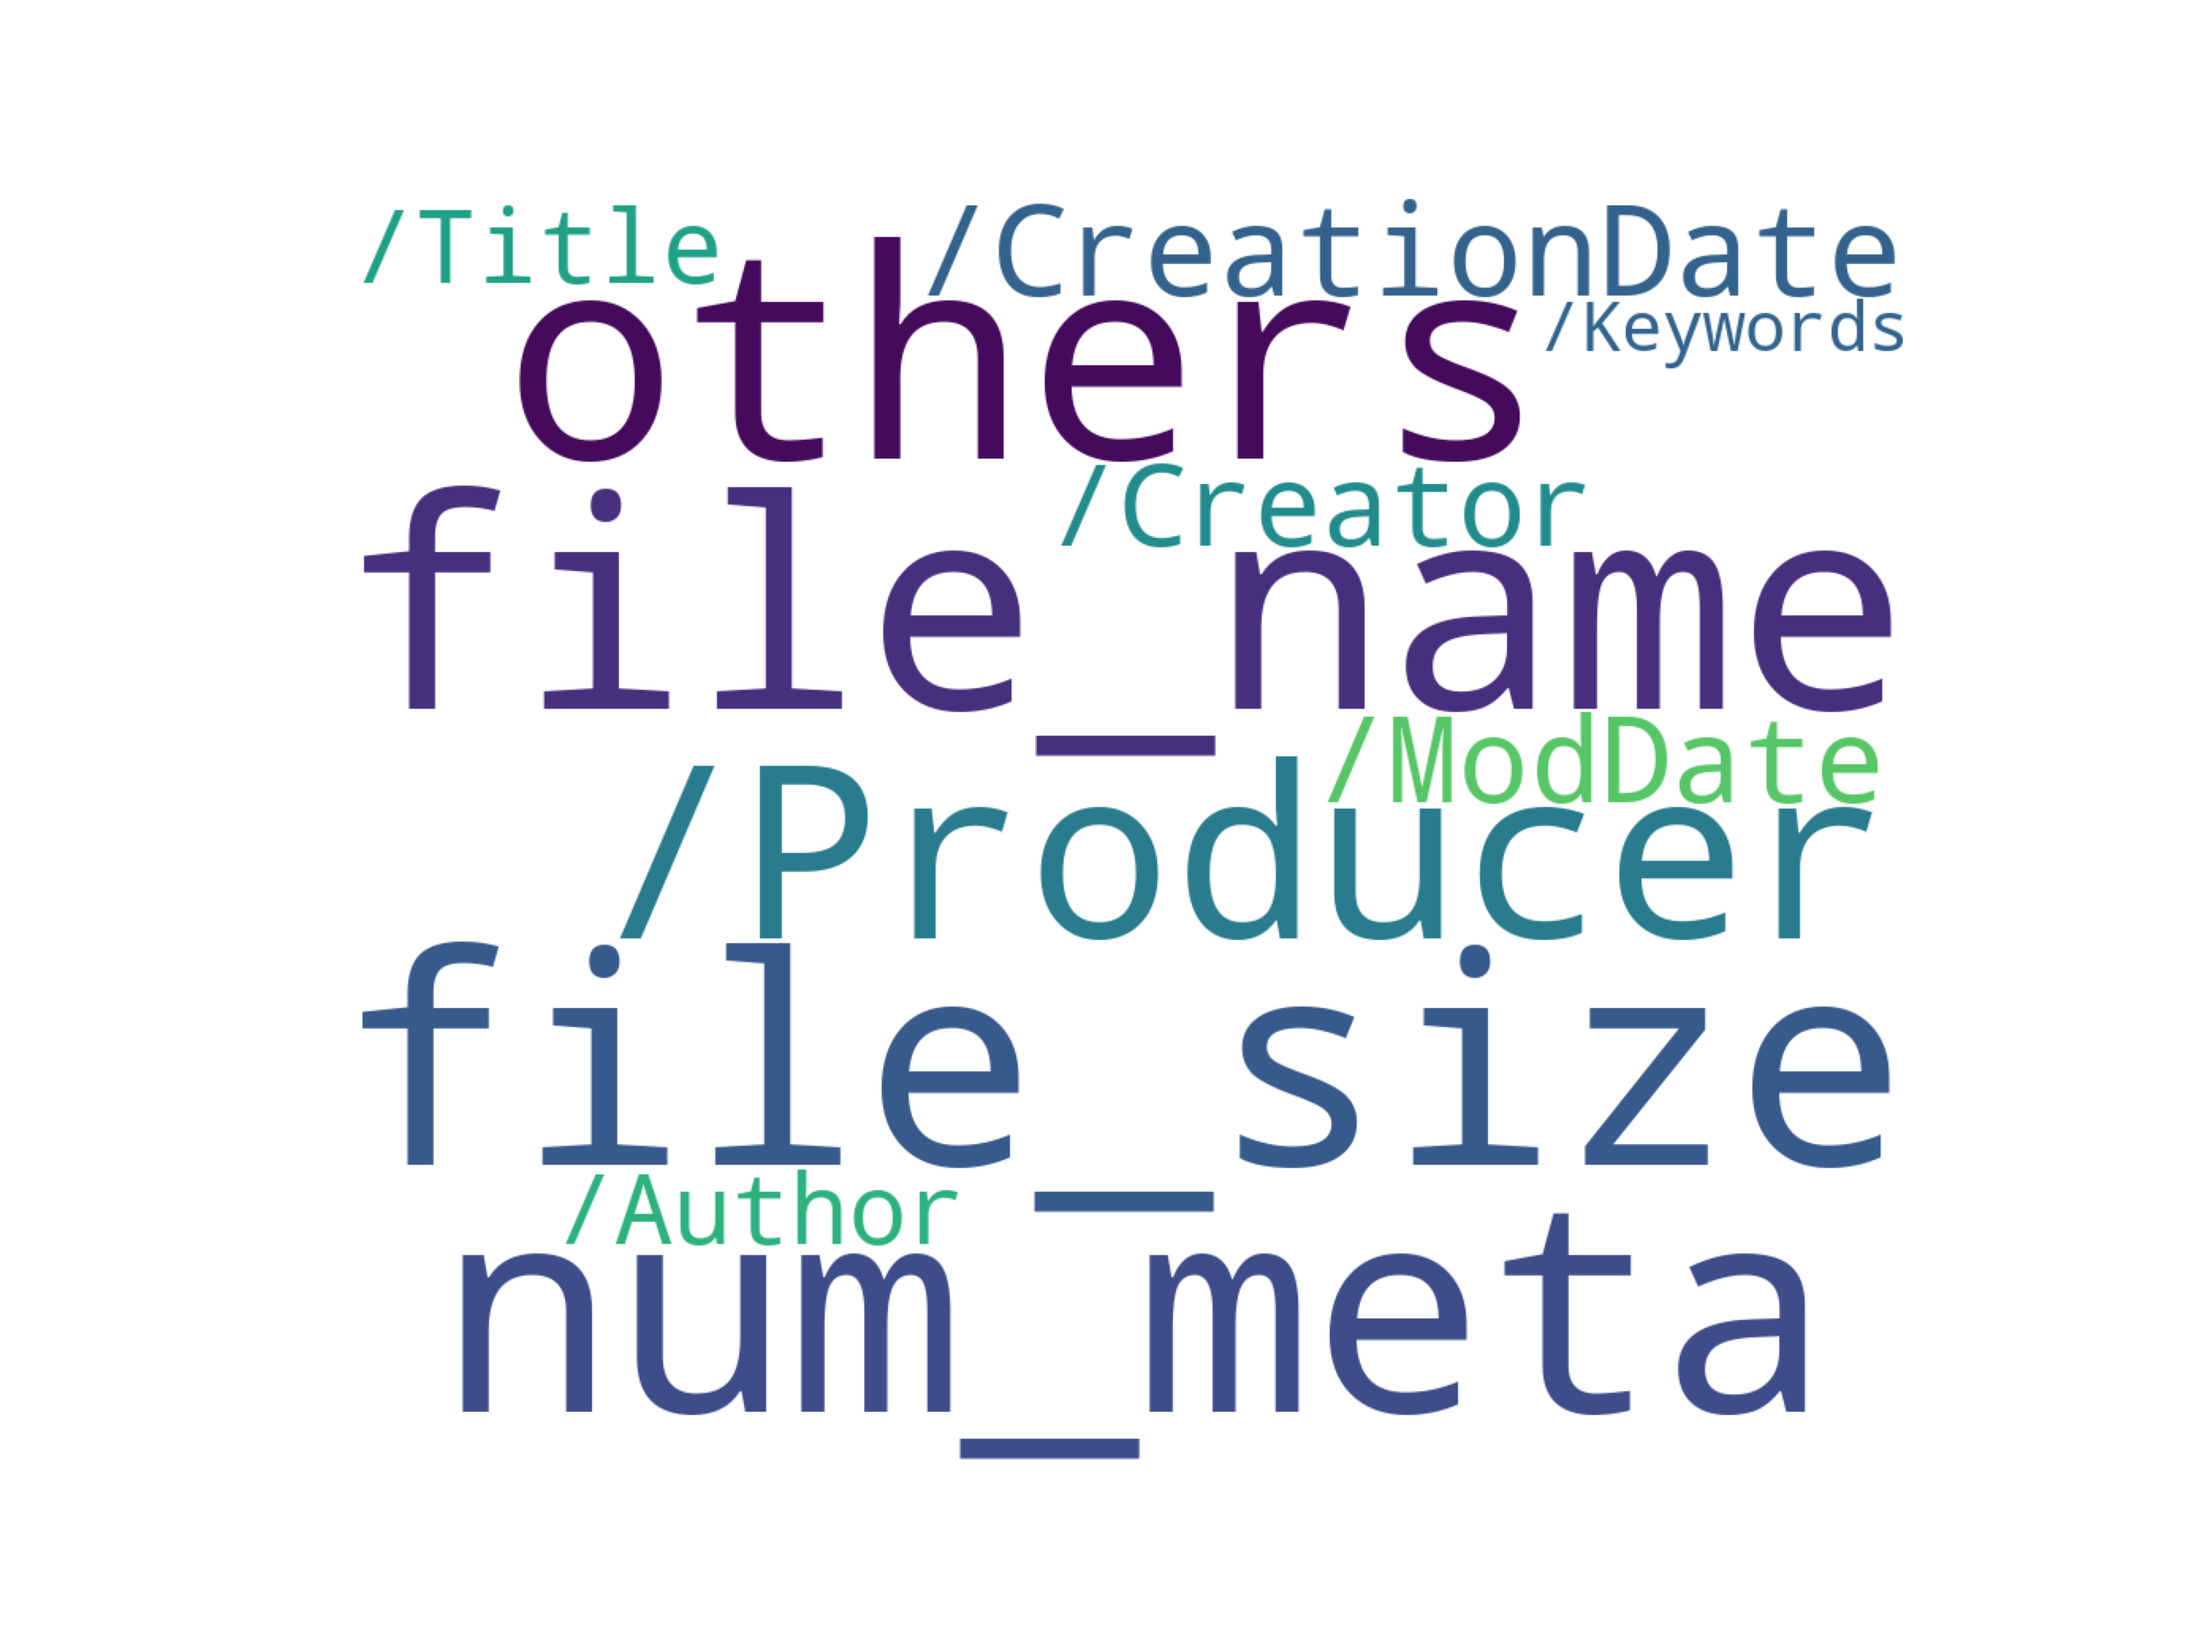
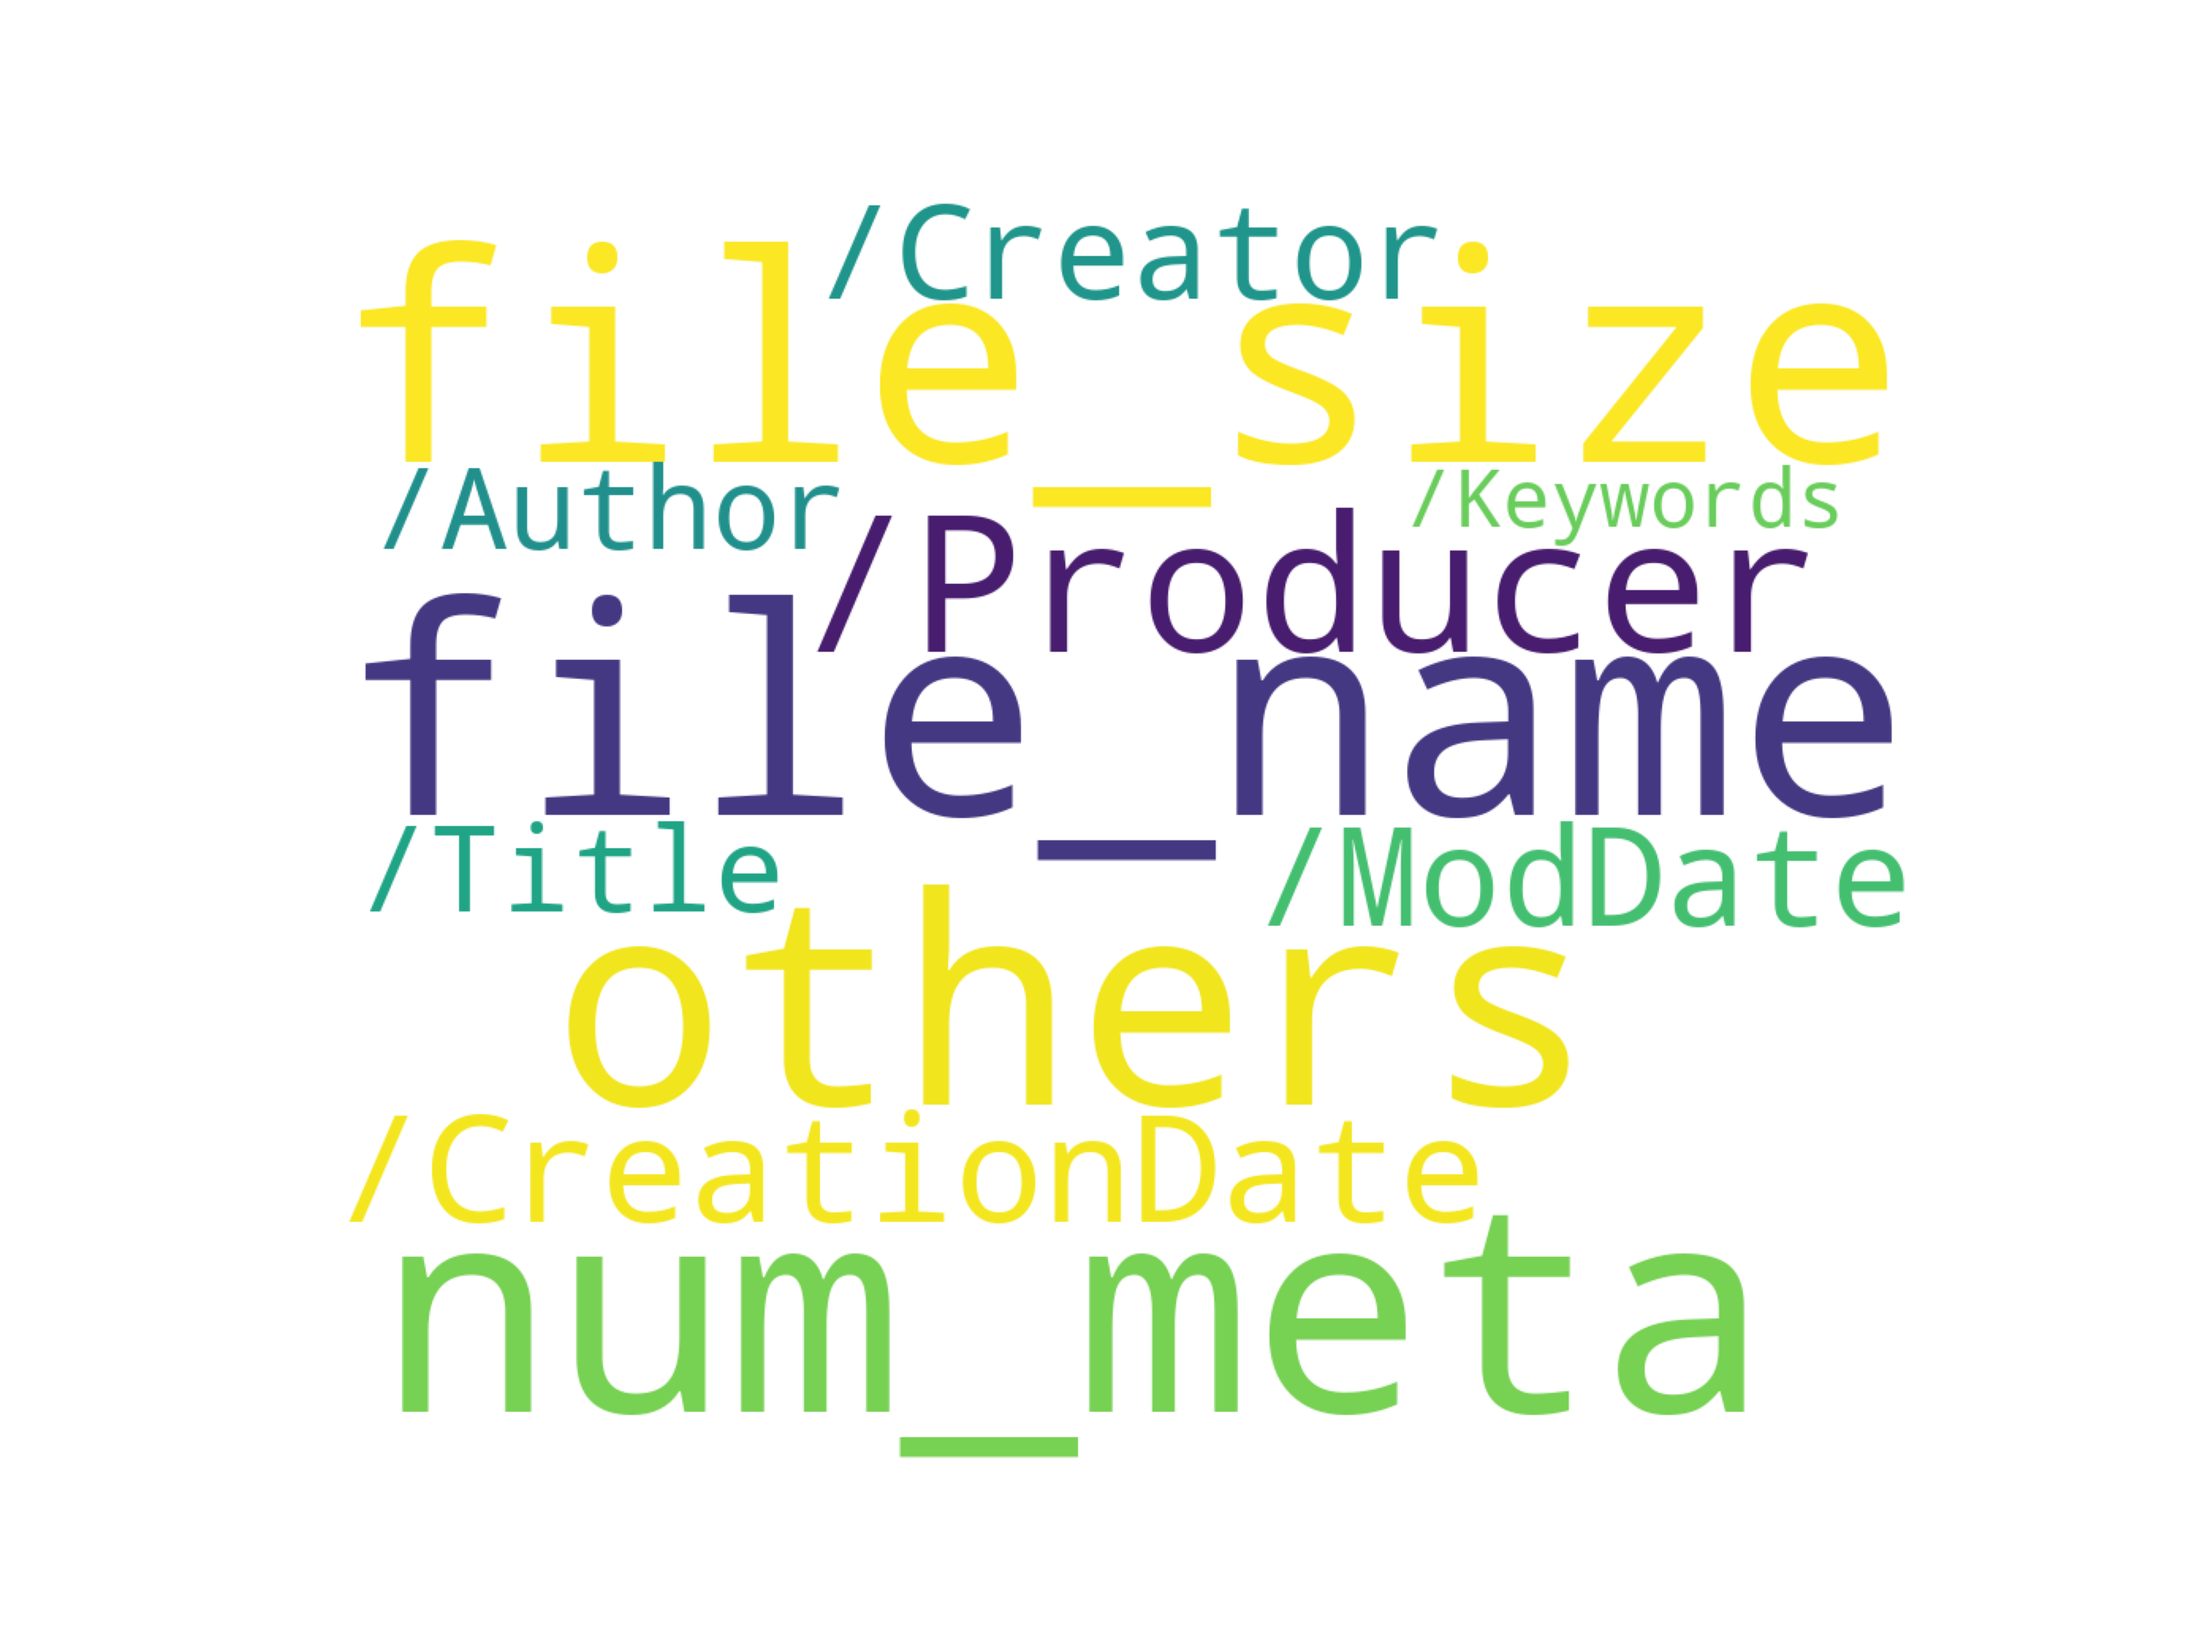
更新元数据信息

Changed region(s): [[0.1562, 0.125, 0.875, 0.9062]]

diff --git a/analysis.md b/analysis.md
@@ -26,15 +26,17 @@ pikepdf工具解析pdf文件可以获得以下元数据信息(具体可获得的
 
 示例代码中提取的元数据字段出现频率如下：
 
-> /CreationDate       1.000000
-> /Creator            0.857143
-> /Keywords           0.571429
-> /ModDate            1.000000
-> /PTEX.Fullbanner    0.857143
-> /Producer           1.000000
-> /Subject            1.000000
-> /Title              1.000000
-> /Trapped            0.857143
+> file_name        1.000000
+> file_size        1.000000
+> /Author          0.557461
+> /CreationDate    0.952270
+> /Creator         0.756815
+> /Producer        0.953745
+> /Title           0.612116
+> others           1.000000
+> num_meta         1.000000
+> /ModDate         0.825204
+> /Keywords        0.230727
 
 生成的词云如下：
 
